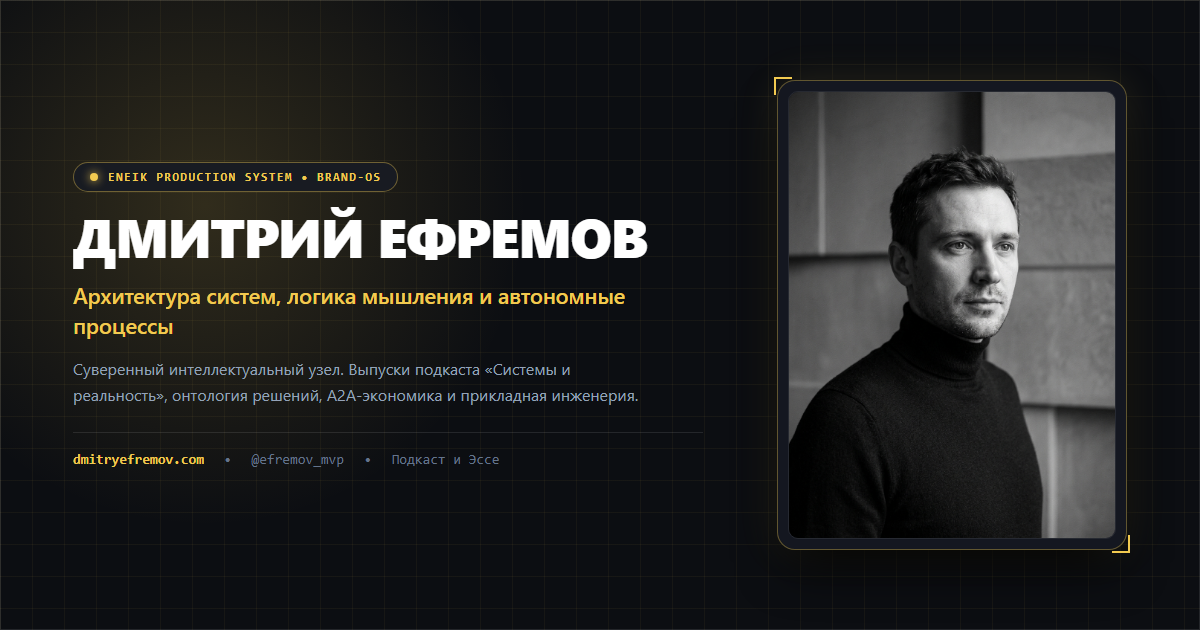
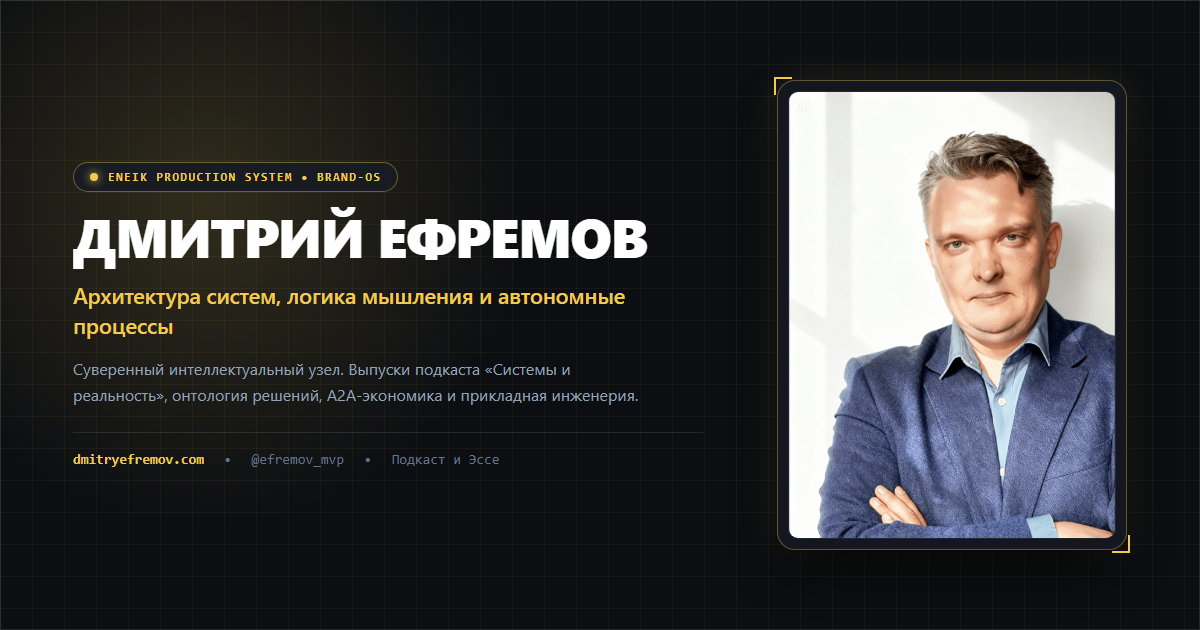
fix(portrait & audio): restore Dmitry real portrait and fix audio loading & autoplay on all episodes

Changed region(s): [[0.6475, 0.1206, 0.9558, 0.8746]]

diff --git a/frontend/src/components/PodcastPlayerView.svelte b/frontend/src/components/PodcastPlayerView.svelte
@@ -58,22 +58,33 @@
     return acc;
   }, null);
 
-  export function seekTo(seconds: number) {
+  export function seekTo(seconds: number, startPlaying: boolean = true) {
     if (!currentEpisode) return;
     const boundedTime = Math.max(0, Math.min(seconds, currentEpisode.durationSeconds));
     currentTime = boundedTime;
     if (audioElement) {
       audioElement.currentTime = boundedTime;
+      if (startPlaying && audioElement.paused) {
+        play();
+      }
     }
   }
 
   export function play() {
-    if (audioElement && audioElement.paused) {
-      audioElement.play().then(() => {
-        isPlaying = true;
-      }).catch(err => {
-        console.warn('Playback error:', err);
-      });
+    if (!audioElement) return;
+    isLoading = true;
+    const playPromise = audioElement.play();
+    if (playPromise !== undefined) {
+      playPromise
+        .then(() => {
+          isPlaying = true;
+          isLoading = false;
+        })
+        .catch(err => {
+          console.warn('Playback error:', err);
+          isPlaying = false;
+          isLoading = false;
+        });
     }
   }
 
@@ -92,18 +103,34 @@
     }
   }
 
-  function handleSelectEpisode(epId: number | string) {
+  function handleSelectEpisode(epId: number | string, autoPlay: boolean = true) {
+    const isSame = selectedEpisodeId === epId;
+    if (isSame) {
+      togglePlay();
+      return;
+    }
+
     selectedEpisodeId = epId;
     currentTime = 0;
     isPlaying = false;
-    if (audioElement) {
-      audioElement.currentTime = 0;
-      audioElement.pause();
-    }
+    isLoading = true;
+
+    setTimeout(() => {
+      if (audioElement) {
+        try {
+          audioElement.load();
+        } catch (e) {
+          console.warn('Audio load error:', e);
+        }
+        if (autoPlay) {
+          play();
+        }
+      }
+    }, 60);
   }
 
   function handleTimecodeClick(tc: PodcastTimecode, event?: MouseEvent | KeyboardEvent) {
-    seekTo(tc.timeOffsetSeconds);
+    seekTo(tc.timeOffsetSeconds, true);
     if (event && event.currentTarget) {
       (event.currentTarget as HTMLElement).focus();
     }
@@ -285,7 +312,12 @@
             <!-- Hidden Native HTML5 Audio Element -->
             <audio
               bind:this={audioElement}
-              src={currentEpisode.audioUrl}
+              src={currentEpisode?.audioUrl}
+              on:play={() => (isPlaying = true)}
+              on:pause={() => (isPlaying = false)}
+              on:waiting={() => (isLoading = true)}
+              on:playing={() => { isPlaying = true; isLoading = false; }}
+              on:canplay={() => (isLoading = false)}
               on:timeupdate={handleAudioTimeUpdate}
               on:ended={handleAudioEnded}
               preload="auto"

diff --git a/frontend/src/components/TelemetryHub.svelte b/frontend/src/components/TelemetryHub.svelte
@@ -269,14 +269,18 @@
             </div>
             <!-- Portrait Viewport -->
             <div class="relative aspect-[3/4] w-full overflow-hidden rounded-xl bg-black border border-white/10 shadow-inner">
-              <img
-                id="hero-avatar-img"
-                src="/dmitry_efremov_stitch_portrait.jpg"
-                alt="Дмитрий Ефремов — Официальный студийный портрет"
-                class="w-full h-full object-cover object-top hover:scale-[1.01] transition-transform duration-500 ease-out"
-                loading="eager"
-                fetchpriority="high"
-              />
+              <picture>
+                <source type="image/avif" srcset="/assets/images/dmitry_efremov_studio/dmitry_efremov_studio_768w.avif" />
+                <source type="image/webp" srcset="/assets/images/dmitry_efremov_studio/dmitry_efremov_studio_768w.webp" />
+                <img
+                  id="hero-avatar-img"
+                  src="/images/portrait-hero.png"
+                  alt="Дмитрий Ефремов — Официальный студийный портрет"
+                  class="w-full h-full object-cover object-top hover:scale-[1.01] transition-transform duration-500 ease-out"
+                  loading="eager"
+                  fetchpriority="high"
+                />
+              </picture>
             </div>
           </div>
         </div>
